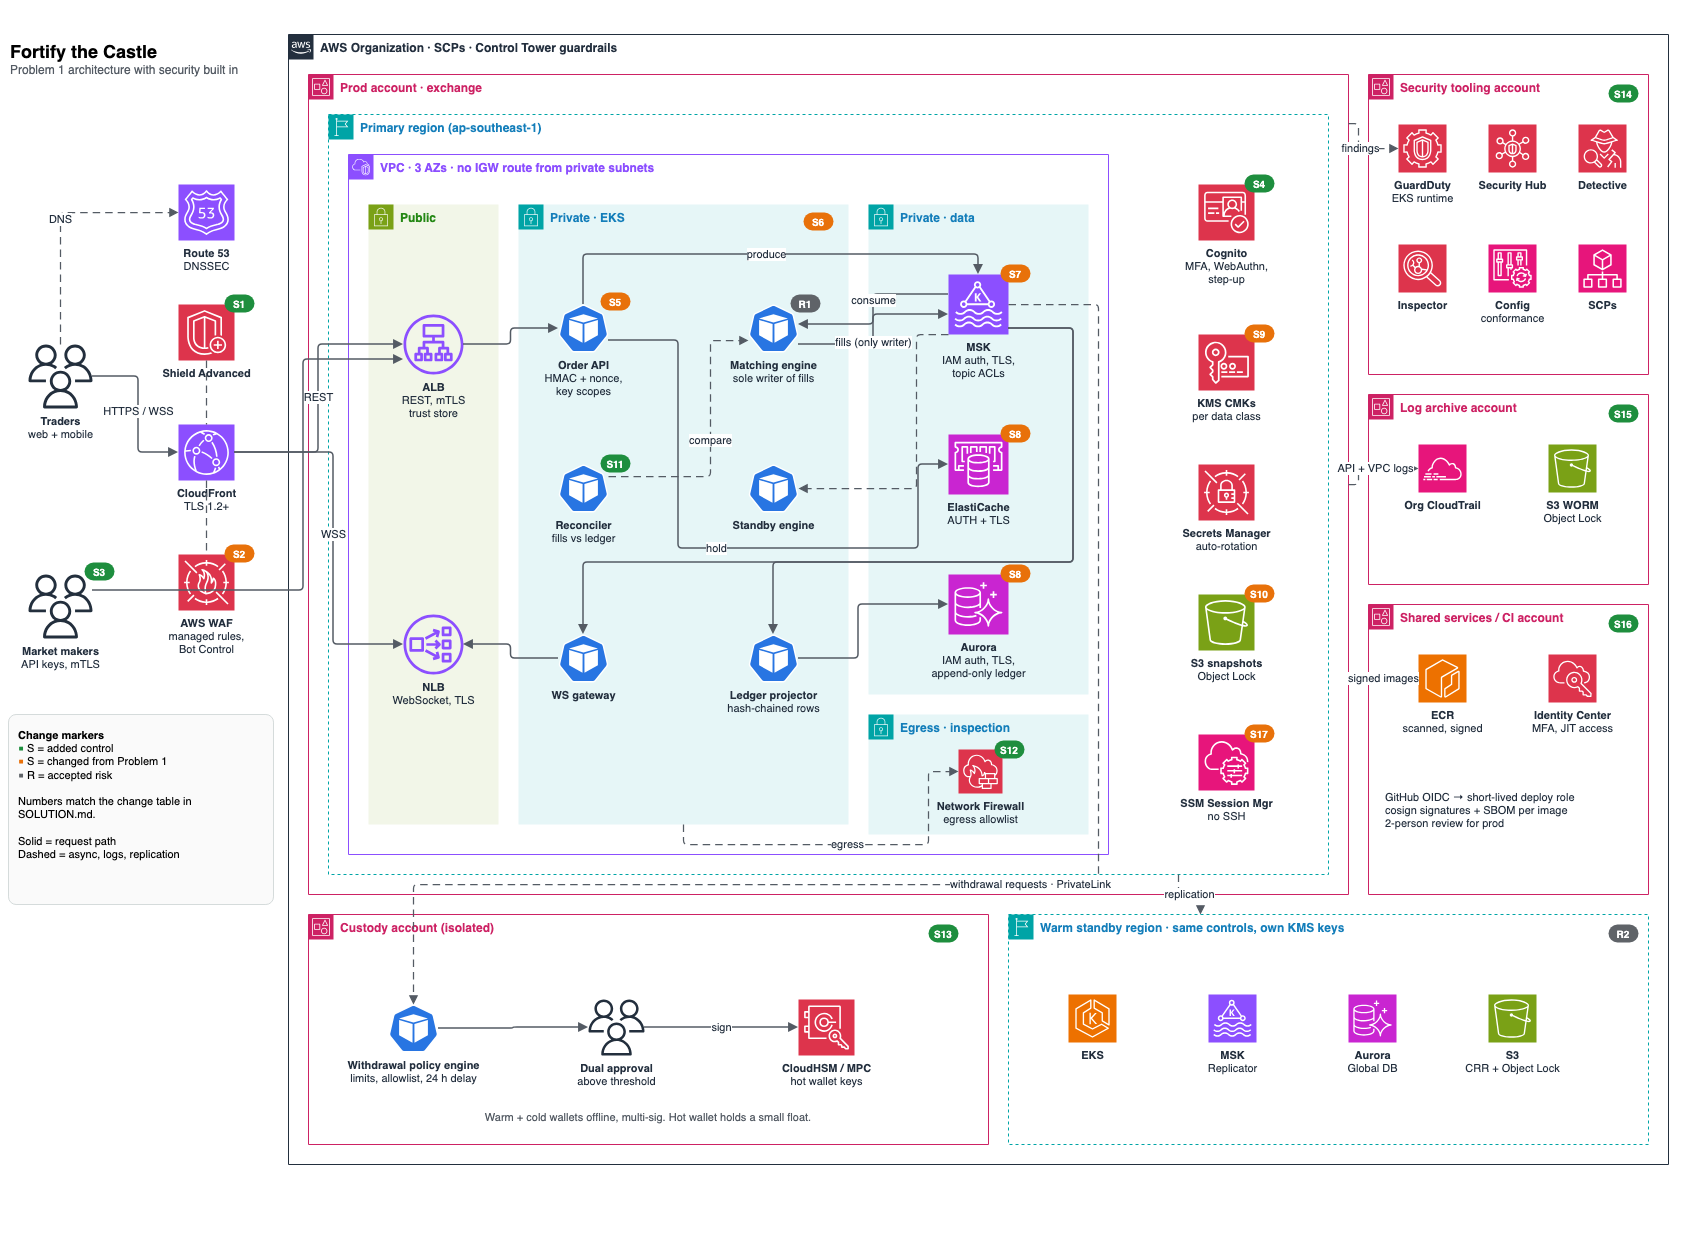
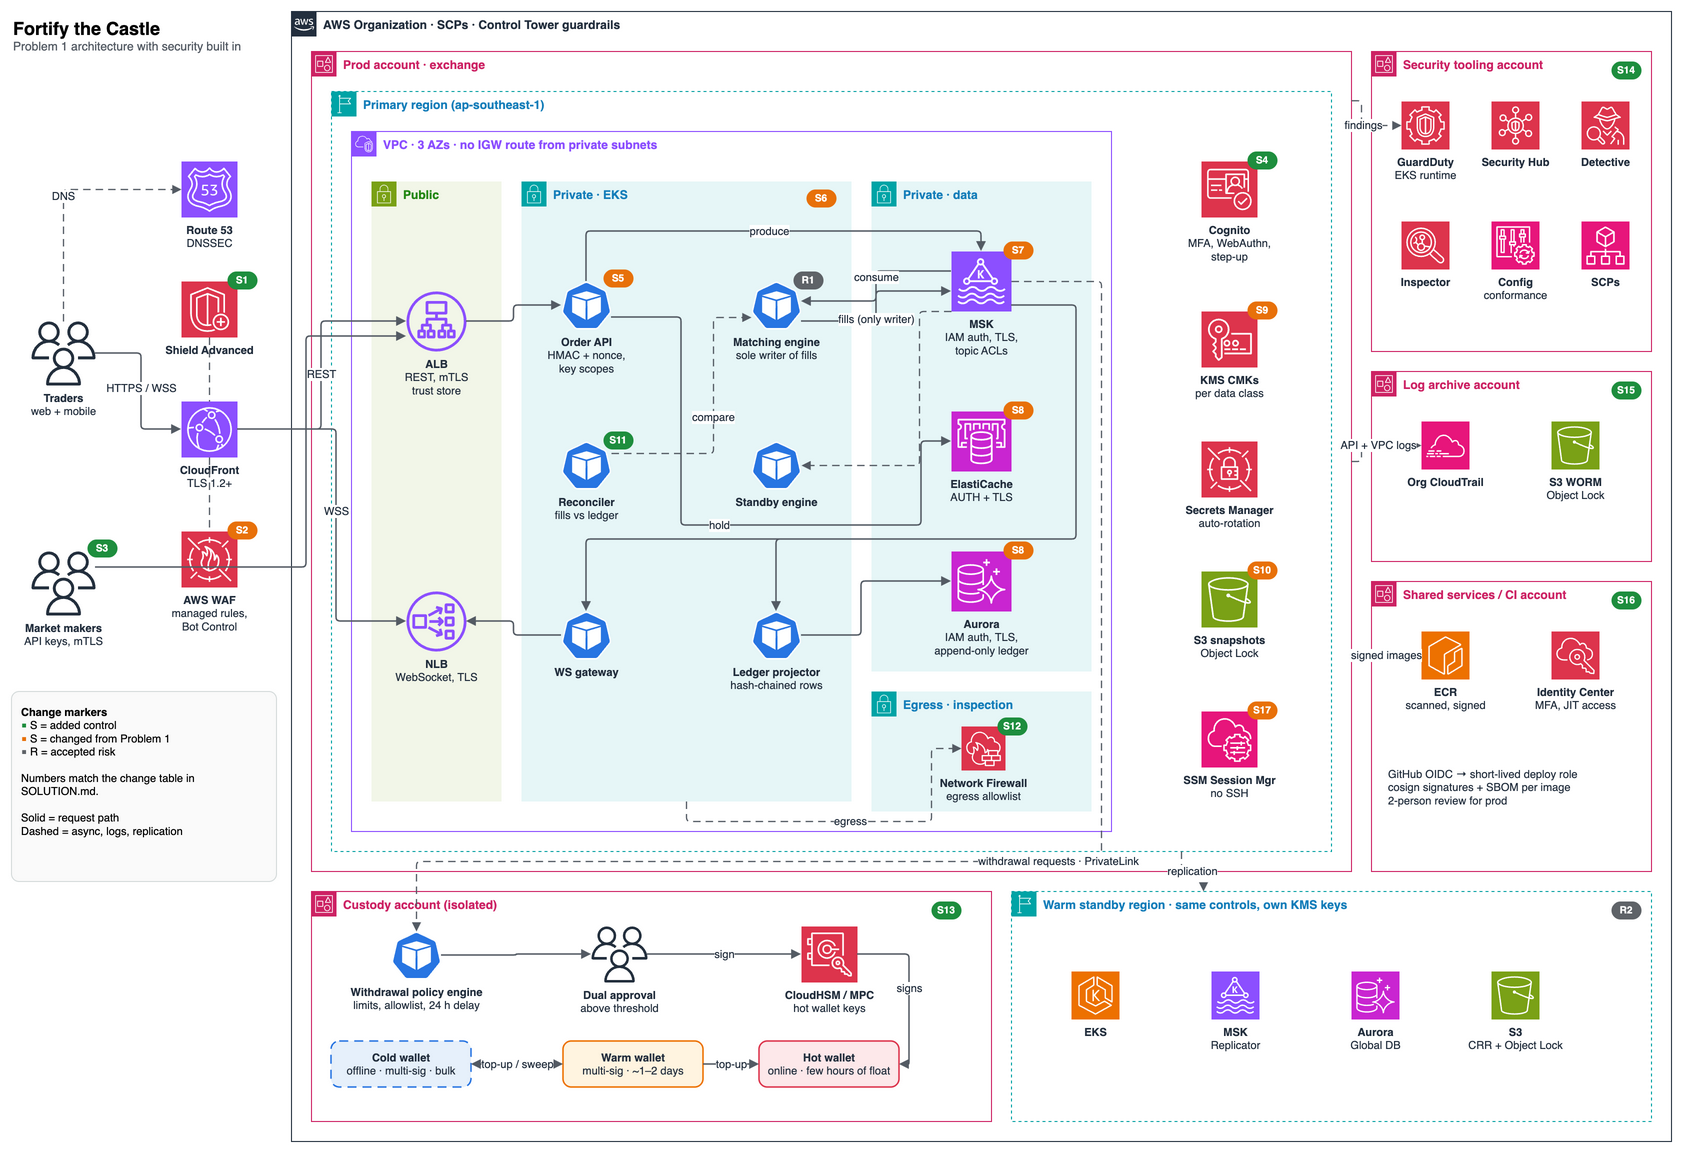
problem 5: add hot, warm and cold wallet tiers to custody

diff --git a/src/problem5/SOLUTION.md b/src/problem5/SOLUTION.md
@@ -96,6 +96,24 @@ Grouped by layer, following the request path from the internet inward.
 | --- | --- | --- |
 | **S13** [ADDED] | **Isolated custody account** with a **withdrawal policy engine** that consumes withdrawal requests over **PrivateLink**. It is the only path to signing. Rules: per-user and global velocity limits; address allowlist with a 24-hour activation delay for new addresses; sanctions and chain-analytics screening; a 24-hour lock after password, MFA or API-key changes; **dual human approval above a threshold**. **Signing keys live in CloudHSM or an MPC signer** and are never exported. **Hot / warm / cold split:** the hot wallet holds only a few hours of withdrawal volume; most funds sit in multi-sig cold storage offline. | **The main loss scenario.** Even full compromise of the prod account can't sign a transaction outside policy, and the hot float caps the worst case. |
 
+#### Hot, warm and cold wallets
+
+A crypto wallet is just a set of private keys: whoever can sign with the key can move the coins, and an on-chain transfer can't be reversed. Any key that is online and signs automatically can be abused by an attacker who gets far enough in. Any key that is offline is safe but slow to use. No single wallet can be both fast and safe, so funds are split into three tiers. The bottom row of the custody account in the diagram shows them:
+
+| Tier | In the diagram | Holds | How it signs | Why it exists |
+| --- | --- | --- | --- | --- |
+| **Hot** | Red box, signed by **CloudHSM / MPC** | A few hours of expected withdrawals | Online and automatic, after the policy engine (and dual approval above the threshold) | Lets normal withdrawals go out in seconds. Because it holds so little, it caps what an attacker can steal if every other control fails. |
+| **Warm** | Orange box | Roughly 1–2 days of withdrawals | Multi-sig, with keys held by separate custody staff; signs on request in minutes to hours | A buffer that refills the hot wallet without touching cold storage every day. Stealing from it needs several people or keys at once. |
+| **Cold** | Blue box with a **dashed border** (offline: no network, so nothing on AWS to draw) | The bulk of customer funds (typically 90%+) | Offline multi-sig on air-gapped hardware, keys split across people and locations; a scheduled ceremony takes hours | Keeps most funds out of reach of any network attack, including a full AWS compromise. |
+
+Funds move between the tiers along the arrows:
+
+- **Top-up:** when the hot wallet falls below its floor, the warm wallet refills it. When the warm wallet runs low, a cold-storage ceremony refills it. Both are planned from withdrawal forecasts so that customers never wait on cold storage.
+- **Sweep:** customer deposits and any hot or warm balance above its ceiling are moved back to cold storage on a schedule, so the online float stays small.
+- **Alerts:** hot and warm balances are monitored against their floor and ceiling. An unexpected drop pages on-call and halts withdrawals, the same as a reconciler mismatch (S11).
+
+The trade-off is speed for the rare large withdrawal: if it exceeds the hot float, it waits for a warm top-up, which adds minutes to hours. This is the same trade-off as dual approval, and it only affects a small share of withdrawals by count.
+
 ### Detection, response and audit
 
 | ID | Change | What it protects against |
